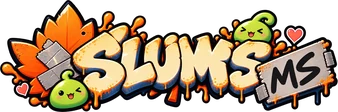
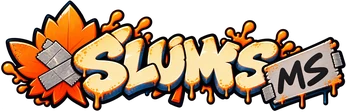
Site: cleaner SlumsMS wordmark in the header, 'Bustin' chat since 2009' art on the home page
The owner sent two new brand images: a cleaner wordmark (no slimes, reads
better at 56 px) and a scene of the mascot in Henesys with a 'Bustin' chat
since 2009!' sign. The wordmark replaces the placeholder (with a 2x copy for
sharp screens); the scene heads the home page's 'What it's like' panel,
lazy-loaded, 720 and 1200 px versions.

Claude-Session: https://claude.ai/code/session_01BbGu8wy5tur3enirbnGDUQ

diff --git a/docs/site/home.html b/docs/site/home.html
@@ -56,6 +56,8 @@
 <section class="split">
   <div class="panel">
     <h2 class="bar">What it's like</h2>
+    <figure class="scene"><img src="assets/brand/chat-2009.webp" srcset="assets/brand/chat-2009-720.webp 720w, assets/brand/chat-2009.webp 1200w"
+      sizes="(max-width: 900px) 100vw, 640px" alt="The SlumsMS mascot winks and throws a peace sign in Henesys, beside a sign that says &ldquo;Bustin&rsquo; chat since 2009!&rdquo;" width="1200" height="800" loading="lazy"></figure>
     <div class="in">
     <ul class="ticks">
       <li><b>Thousands of regulars.</b> About 3,000 bots at the evening peak. Talk to them in plain words: "wanna party?", "come to henesys", "how much for the work gloves".</li>

diff --git a/docs/site/assets/site.css b/docs/site/assets/site.css
@@ -152,6 +152,8 @@ main { padding-block: 8px 48px; }
 .home-board { display: grid; grid-template-columns: minmax(0, 1.25fr) minmax(0, 1fr); gap: 24px; margin: 32px 0; align-items: start; }
 .split { display: grid; grid-template-columns: minmax(0, 1.4fr) minmax(0, 1fr); gap: 36px; margin-bottom: 36px; align-items: start; }
 .split .in { padding: 18px 20px; }
+.scene { margin: 0; border-bottom: var(--border) solid var(--edge); line-height: 0; }
+.scene img { width: 100%; height: auto; display: block; }
 .ticks { list-style: none; padding: 0; margin: 0; display: grid; gap: 14px; }
 .ticks li { padding-left: 18px; border-left: 4px solid var(--accent); }
 .facts { padding: 20px 22px; }

diff --git a/tools/site/common.py b/tools/site/common.py
@@ -78,7 +78,7 @@ def layout(title, body, root, section, description="", base=""):
 <body>
 <a class="skip" href="#main">Skip to content</a>
 <header class="site-head"><div class="wrap">
-  <a class="brand" href="{root}index.html"><img src="{root}assets/brand/wordmark.webp" alt="SlumsMS" width="169" height="56"></a>
+  <a class="brand" href="{root}index.html"><img src="{root}assets/brand/wordmark.webp" srcset="{root}assets/brand/wordmark.webp 1x, {root}assets/brand/wordmark-2x.webp 2x" alt="SlumsMS" width="173" height="56"></a>
   <nav class="site-nav" aria-label="Site">{links}</nav>
   <div class="theme" role="group" aria-label="Colour theme" data-theme-switch hidden><button type="button" data-theme-btn="system">Auto</button><button type="button" data-theme-btn="light">Light</button><button type="button" data-theme-btn="dark">Dark</button></div>
   <div class="accents" role="group" aria-label="Accent colour" data-accent-switch hidden>{"".join(
